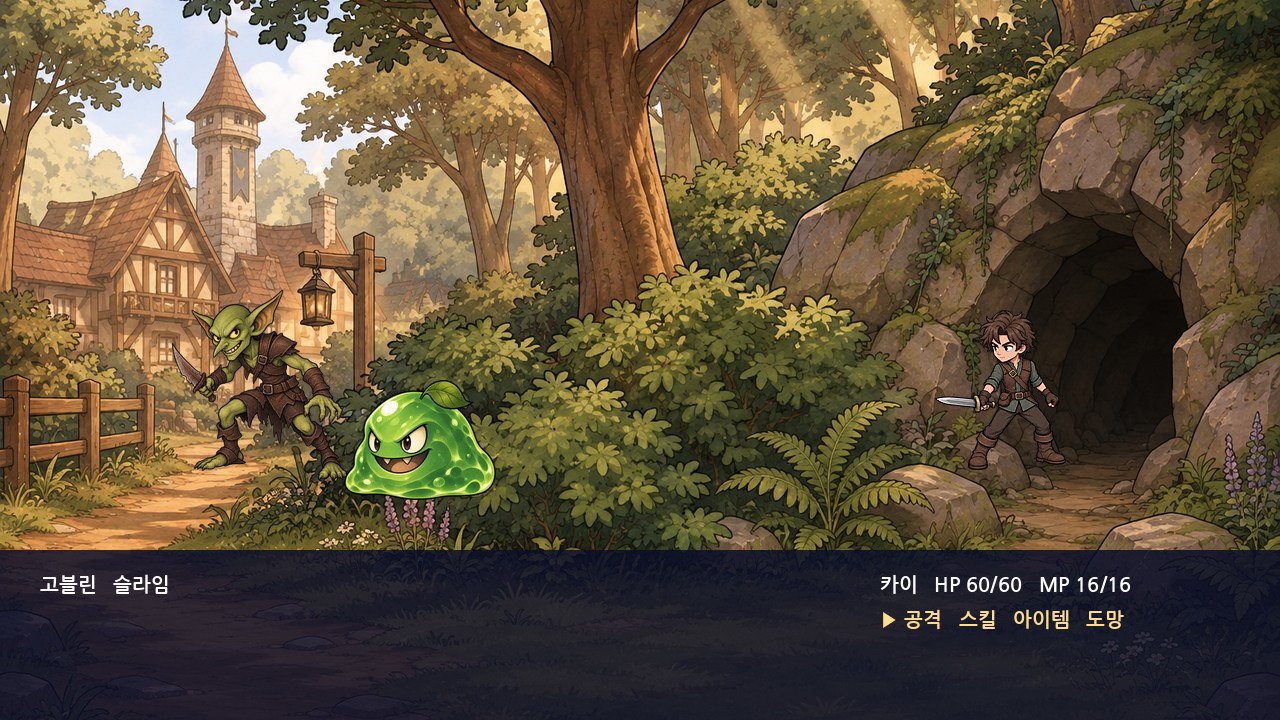
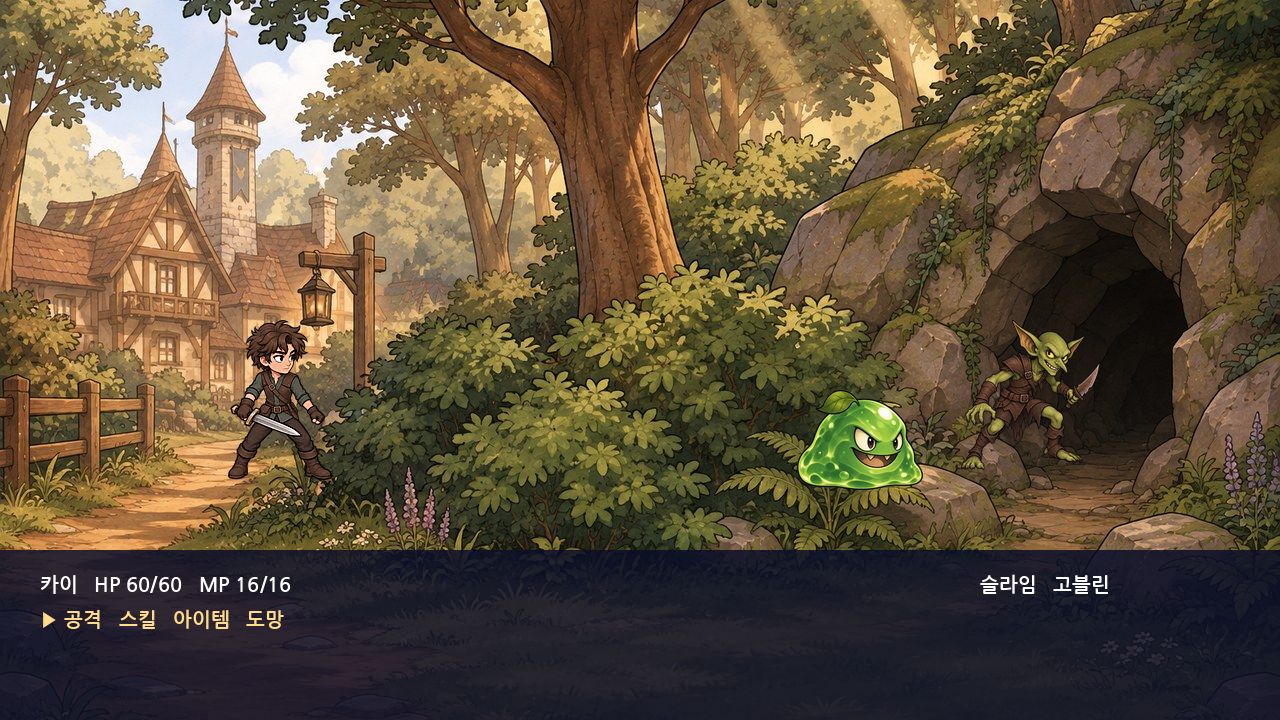
Battle layout: allies on the left facing right, enemies on the right; Kai uses battle sprite 1
Claude-Session: https://claude.ai/code/session_01WFgBYsqnPjwxzhWx9BLhU6

diff --git a/mosshill/concept_art/srpg/README.md b/mosshill/concept_art/srpg/README.md
@@ -1,15 +1,15 @@
 # 전투용 작은 인물 그림 — 시험
 
-**전투는 파이널 판타지처럼 좌우로 확정** (적 왼쪽, 아군 오른쪽에서 왼쪽을 봄). 아래 2.5등신 SRPG 시험 다음에 3.5등신 전투 그림을 만들었다.
+**전투는 파이널 판타지처럼 좌우로 확정** (아군 왼쪽에서 오른쪽을 봄, 적 오른쪽). 아래 2.5등신 SRPG 시험 다음에 3.5등신 전투 그림을 만들었다.
 
 ## 3.5등신 좌우 전투용 (지금 기준)
 
 | 파일 | 내용 |
 |---|---|
-| `kai_battle35_2.png` | **채택 후보** — 왼쪽을 보고 칼을 앞으로 (이미지 서버 `img_mwowklc3axGx8pii`). `_160` / `_128` 은 키 160·128px |
-| `kai_battle35_1.png` | 다른 후보 — 얼굴이 오른쪽을 봐서 좌우 전투에 안 맞음 (`img_mwowkjbqz34hCgSu`) |
+| `kai_battle35_1.png` | **채택** — 오른쪽을 보고 칼을 낮게 듦 (이미지 서버 `img_mwowkjbqz34hCgSu`). `_160` / `_128` 은 키 160·128px |
+| `kai_battle35_2.png` | 다른 후보 — 왼쪽을 봄 (`img_mwowklc3axGx8pii`) |
 | `kai35_compare.png` | 2.5등신 A안과 3.5등신 두 후보 비교 |
-| `sideview_mock.png` | 좌우 전투 화면 구도 시험 (숲 배경, 고블린·슬라임은 지금 적 그림 그대로라 크기는 아직 안 맞춤) |
+| `sideview_mock.png` | 좌우 전투 화면 구도 시험 — 아군 왼쪽 / 적 오른쪽 (적 그림은 좌우를 뒤집어 왼쪽을 보게, 크기는 아직 안 맞춤) |
 
 그린 방법: 2.5등신 A안(1번)과 카이 대화 그림(2번)을 견본으로, 3.5등신(머리를 작게, 팔다리를 길게), 왼쪽을 보는 3/4 방향, 칼을 앞으로, 투명 배경.
 

diff --git a/docs/world-design.md b/docs/world-design.md
@@ -14,8 +14,8 @@
 
 - **장르:** 카툰풍 서양 판타지 모험. 어른도 즐길 수 있는 유머와 이야기지만 **연애 위주 게임이 아니다.**
 - **전투·성장:** **드래곤 퀘스트 쪽** — 턴제 파티 전투, 레벨·장비·직업으로 성장, 마을과 던전을 오가는 모험.
-- **확정: 전투 화면은 파이널 판타지처럼 좌우로** — 적은 왼쪽, 아군은 오른쪽에서 왼쪽을 보고 선다 (옆에서 보는 전투).
-  아군은 3.5등신 전투용 그림 (`concept_art/srpg/` 의 카이 시험 그림에서 출발).
+- **확정: 전투 화면은 파이널 판타지처럼 좌우로** — **아군은 왼쪽에서 오른쪽을 보고, 적은 오른쪽**에 선다 (옆에서 보는 전투).
+  아군은 3.5등신 전투용 그림 — 카이는 `concept_art/srpg/kai_battle35_1.png` (오른쪽을 봄) 으로 정함.
 - **마을 생활:** 원작(SS)처럼 시간대와 인물 위치표가 있는 거점 도시. 인물마다 자기 이야기(퀘스트) 줄기가 있다.
 - **이야기는 처음부터 다시 짠다.** 아래 1장의 '모험가 도시·길드 지부·신규 모험가'는 후보로 두고 새 이야기에 맞춰 다시 확인한다.
 
